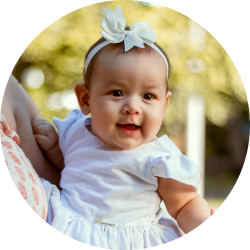
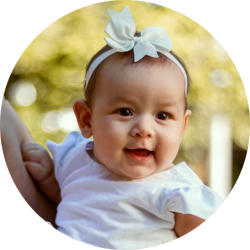
bug arrumado atravez de css e img.id aprendido

diff --git a/aula12_exercicios/ex02/exercicio02.html b/aula12_exercicios/ex02/exercicio02.html
@@ -16,7 +16,7 @@
 
         <p>Sexo:
             <input type="radio" name="sexo" id="masculino"> <!--quando o name é igual em um radio não é possível marcar mais de uma opção, se os names fossem diferentes daria para escolher masculino e feminino no formulario-->
-            <label for="masc">Masculino</label>
+            <label for="masc">Masculino</label> <!--label: texto infomrativo de input-->
             <input type="radio" name="sexo" id="feminino">
             <label for="feminino">Feminino</label>
 

diff --git a/aula12_exercicios/ex02/script.js b/aula12_exercicios/ex02/script.js
@@ -11,7 +11,7 @@ function clicar() {
         var idade = ano_atual - Number(ano_formulario.value)
         var genero = ''
         var img = document.createElement('img')
-        img.setAttribute('id', 'foto')
+        img.id = 'foto'
         if (sexo[0].checked) {
             genero = 'homem'
             if (idade <= 2) {

diff --git a/aula12_exercicios/ex02/style.css b/aula12_exercicios/ex02/style.css
@@ -18,7 +18,13 @@ section {
 }
 
 div{
-    text-align: center;
+    display: flex;
+    flex-direction: column;
+    align-items: center;
+}
+
+#foto{
+    padding: 20px;
 }
 
 footer {
